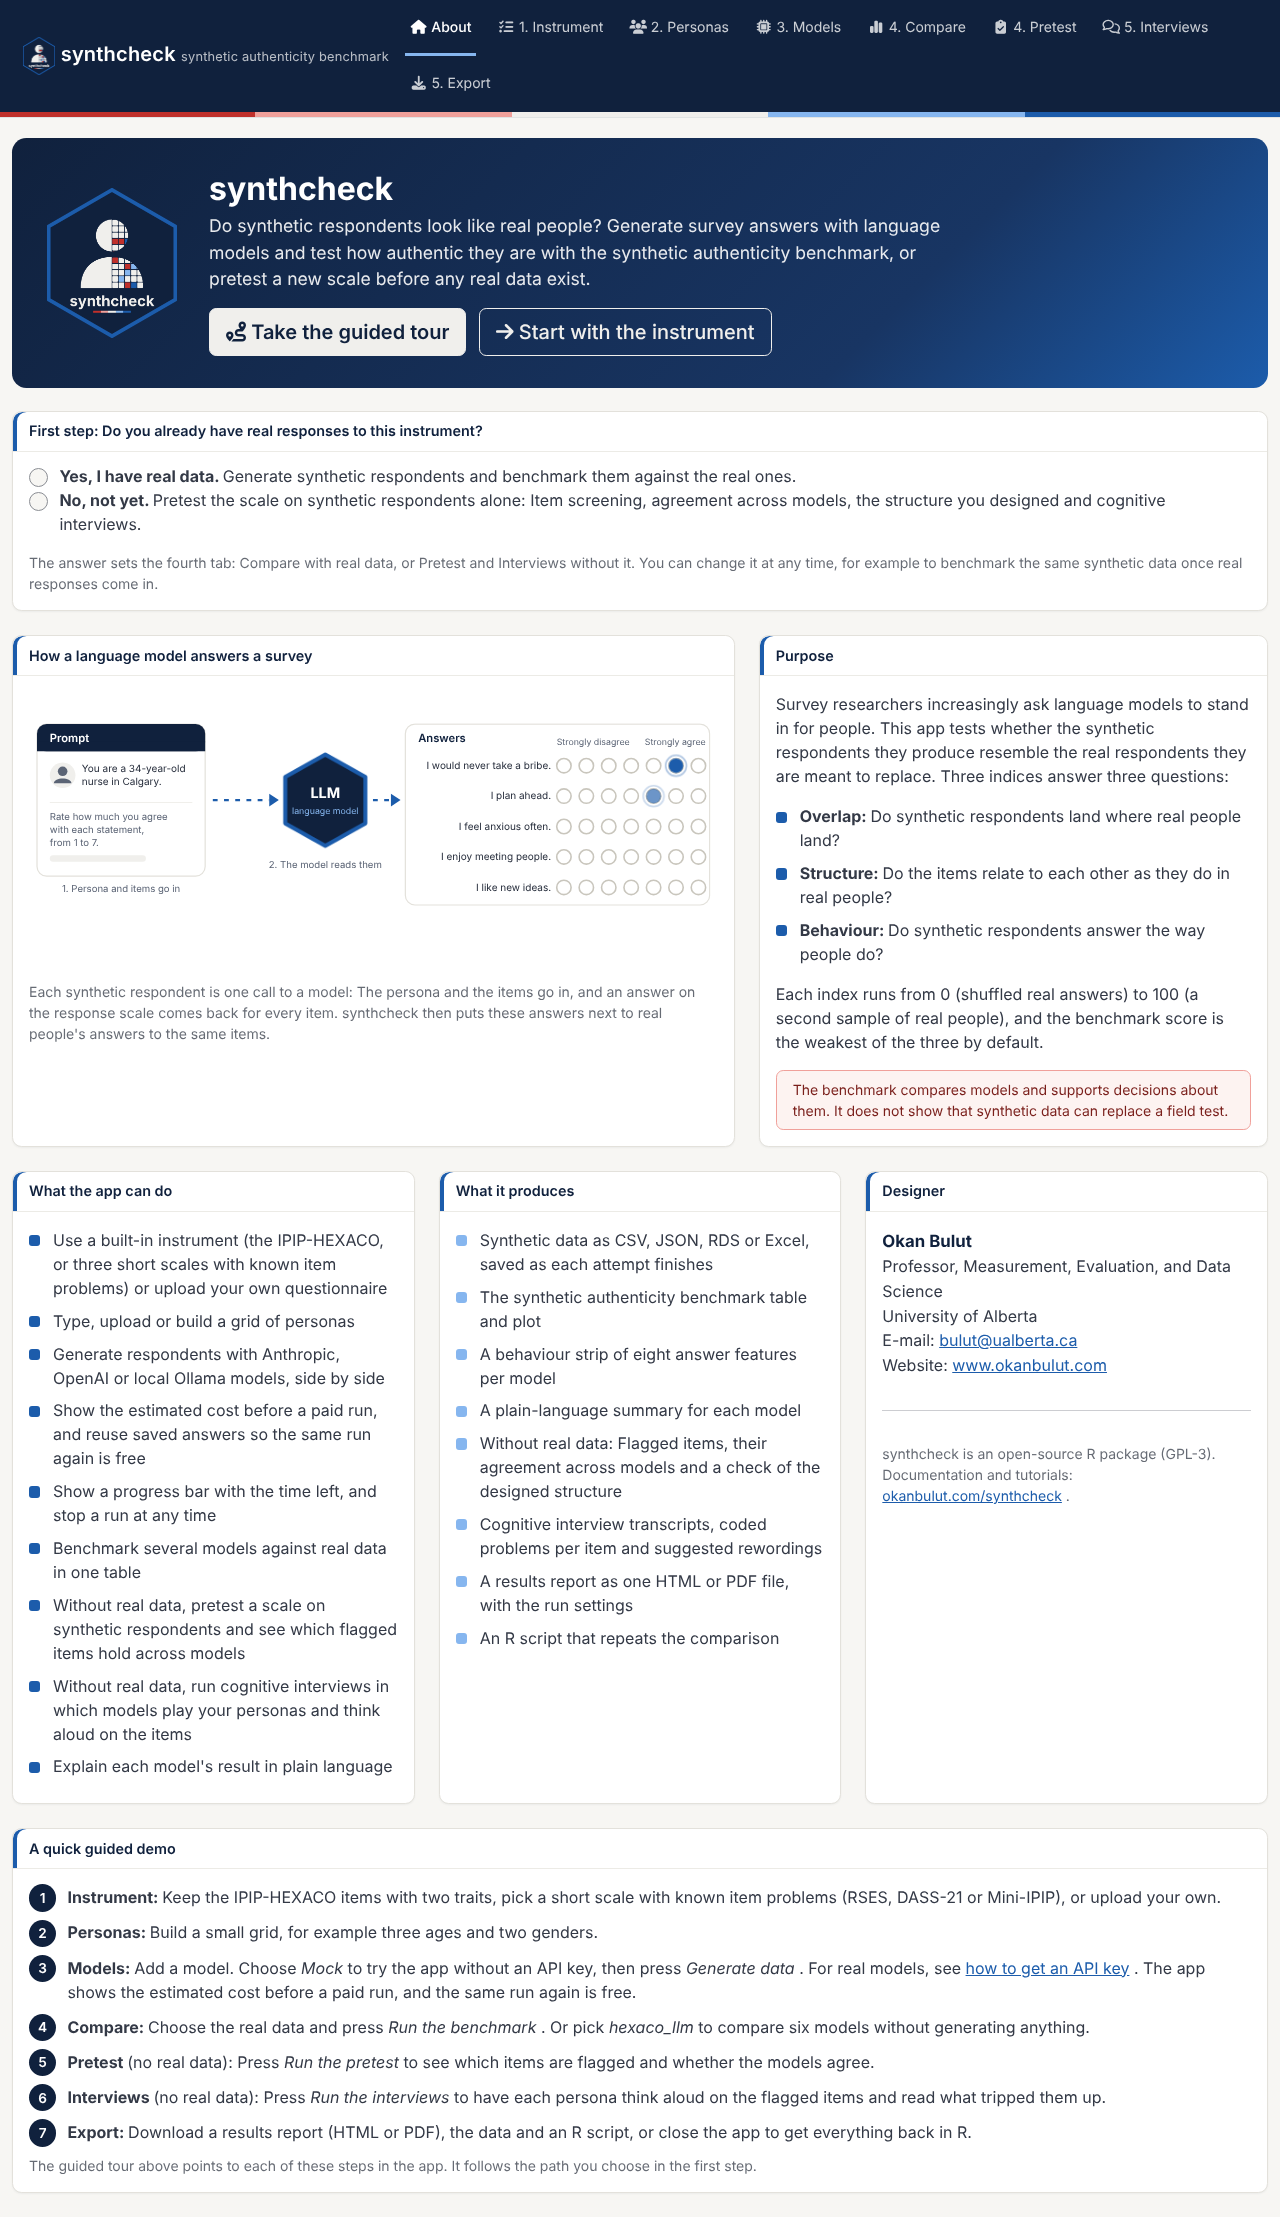
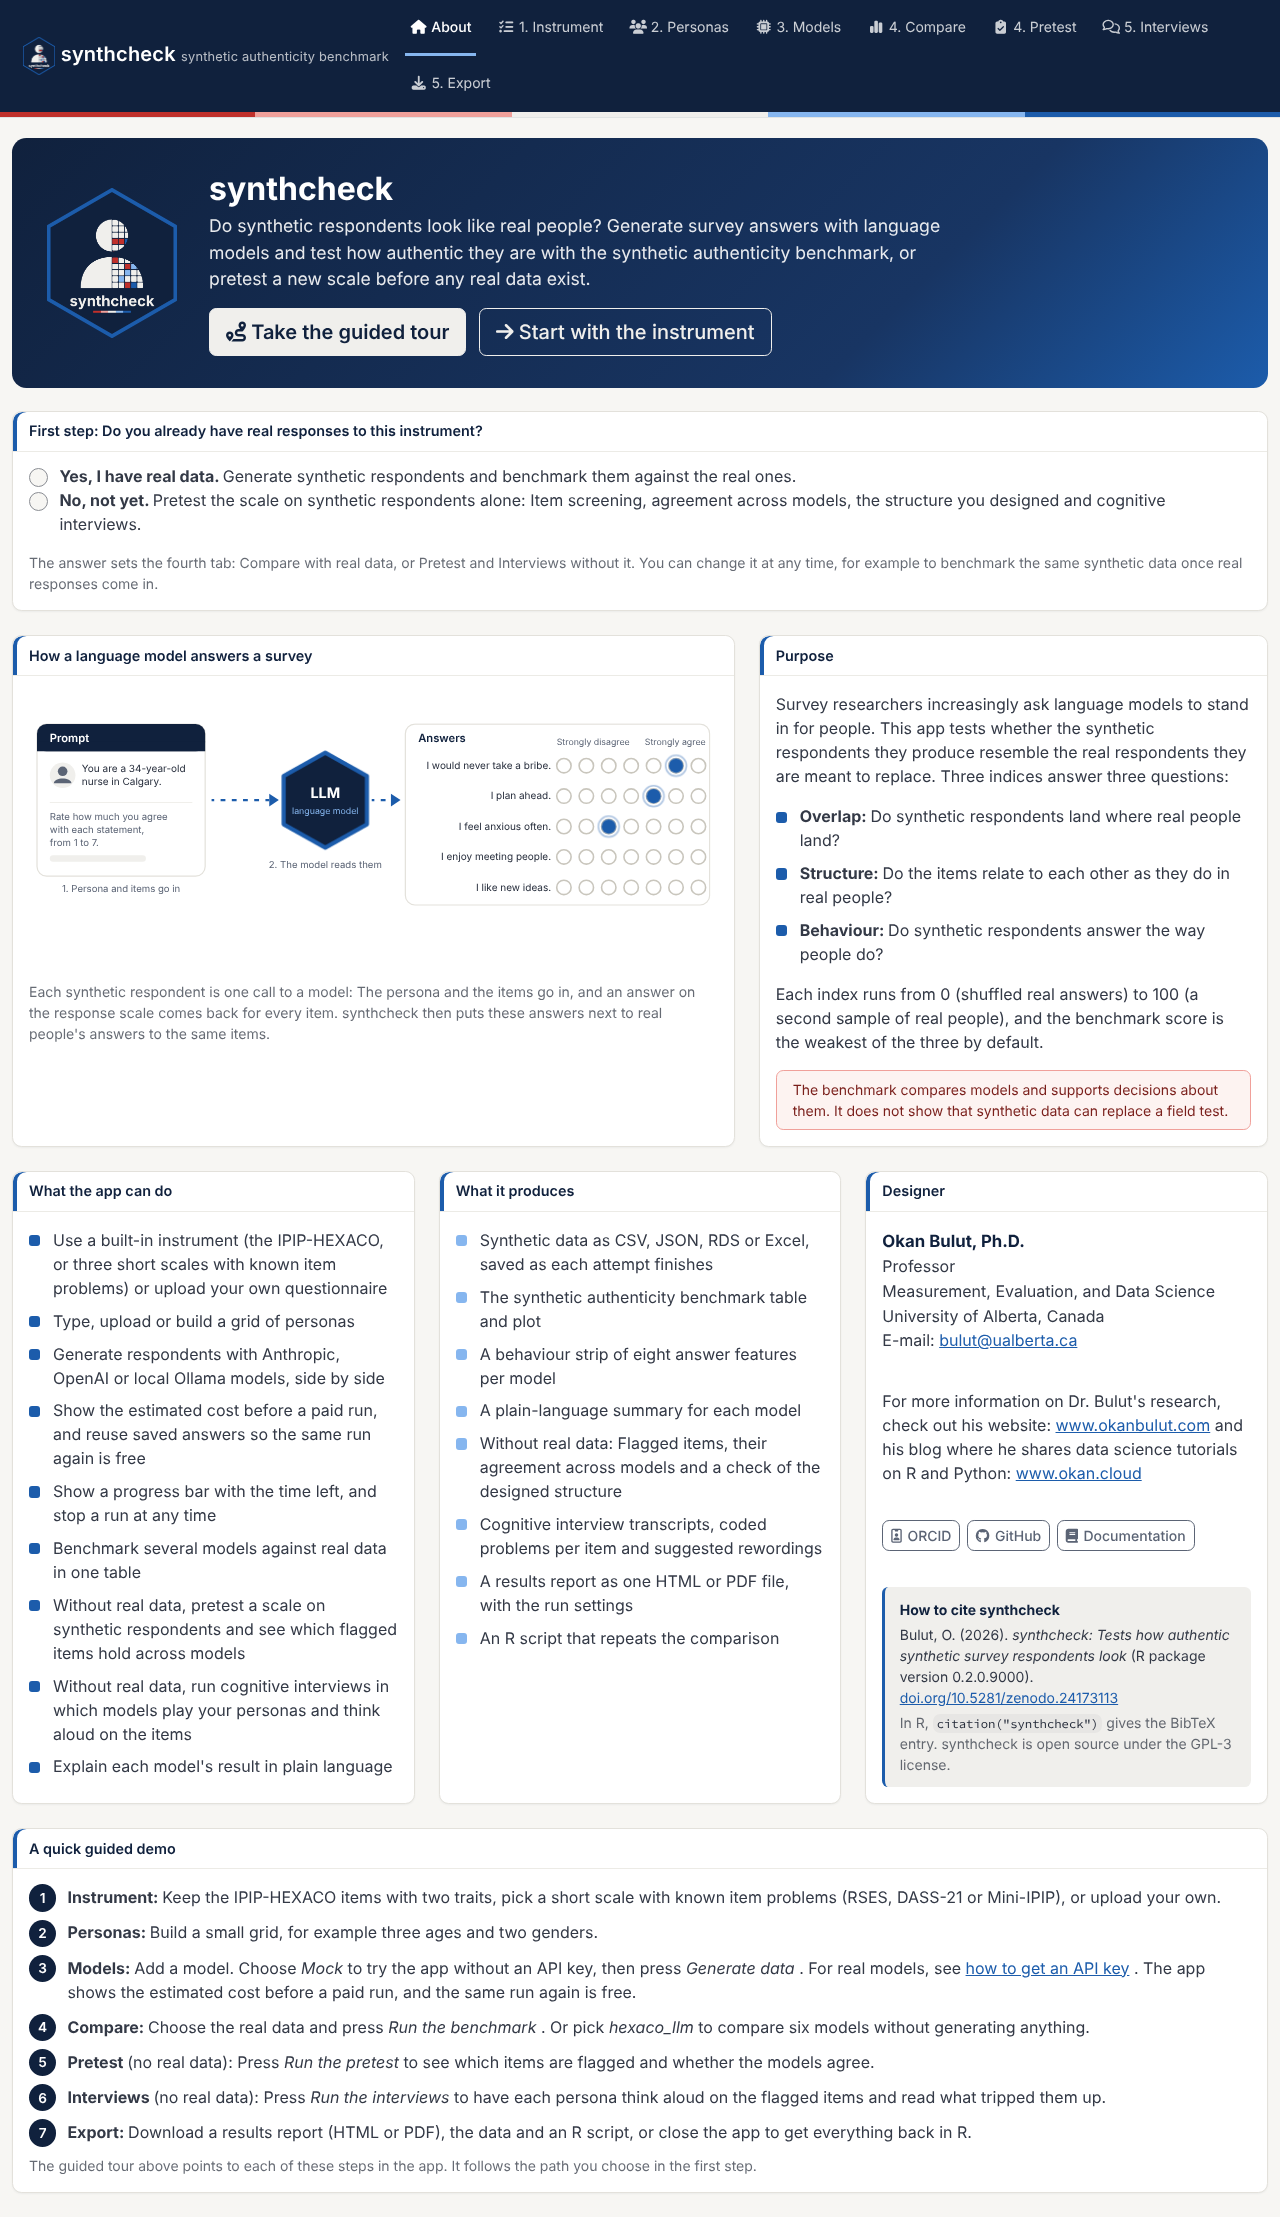
Fill the Designer card on the app's About tab
Okan's contact wording with clickable links, ORCID, GitHub and
documentation buttons, and a citation box with the Zenodo DOI. The card
spreads its content over the full height, so it no longer ends in a
blank space. Refresh the About tab screenshot.

Claude-Session: https://claude.ai/code/session_01GraftroBFEKLVXjwCAzjh1

Changed region(s): [[0.6875, 0.5602, 0.9688, 0.8092], [0.2812, 0.3424, 0.3125, 0.3735], [0.2188, 0.3424, 0.25, 0.3735]]

diff --git a/inst/app/www/synthcheck.css b/inst/app/www/synthcheck.css
@@ -91,6 +91,17 @@ table.table { font-size: .9rem; }
 .sc-contact { line-height: 1.55; }
 .sc-contact .sc-name { font-weight: 700; font-size: 1.05rem; color: var(--sc-navy); }
 .sc-contact a { color: var(--sc-blue); }
+.sc-links { display: flex; flex-wrap: wrap; gap: .4rem; }
+.sc-links .btn { display: inline-flex; align-items: center; gap: .35rem; }
+.card-body:has(> .sc-designer) { display: flex; flex-direction: column; }
+.sc-designer { display: flex; flex-direction: column; justify-content: space-between; gap: 1rem; flex: 1 1 auto; }
+.sc-designer > * { margin: 0; }
+.sc-cite {
+  line-height: 1.5; padding: .75rem .9rem; border-radius: .4rem;
+  background: var(--sc-pale); border-left: 3px solid var(--sc-blue);
+}
+.sc-cite strong { display: block; color: var(--sc-navy); margin-bottom: .25rem; }
+.sc-cite a { overflow-wrap: anywhere; }
 
 /* ---- the animation: a persona prompt, a model, and answers filling in ---- */
 .sc-anim svg { width: 100%; height: auto; display: block; }

diff --git a/NEWS.md b/NEWS.md
@@ -18,6 +18,10 @@
 
 * New article: "Short instruments with known item problems".
 
+* The Designer card on the app's About tab has the full contact details,
+  links to the designer's website, blog, ORCID and GitHub, and how to cite
+  synthcheck with its Zenodo DOI. It no longer ends in a large blank space.
+
 * New response cache: `generate_synthetic()` and `cognitive_interview()`
   save every answer on disk (`sc_cache()`), under a key made of the
   provider, model, temperature, prompts, respondent, attempt, retry and
